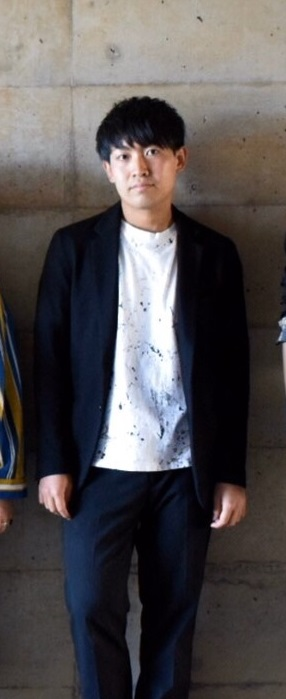
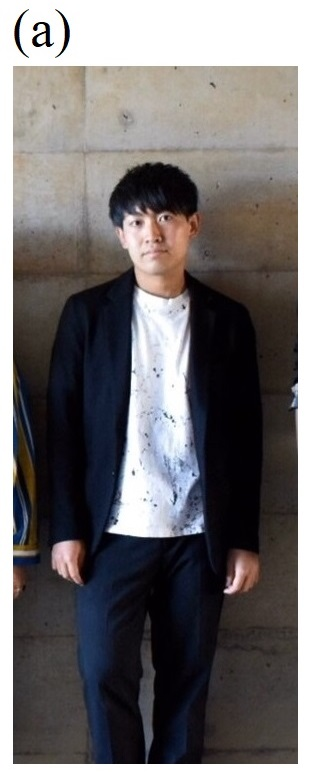
first commit

diff --git a/massively/publications.html b/massively/publications.html
@@ -16,6 +16,20 @@
 
 		<!-- Wrapper -->
 			<div id="wrapper" class="fade-in">
+
+
+				<!-- Intro -->
+				<div id="intro">
+					<h1><font face="Times New Roman">
+						<i>Publications/Presentations</i> <br>
+					 </font>
+						</h1>
+						<p style="text-align: left"> &emsp;This is a list of my Publications and conference presentation.</p>
+					<ul class="actions">
+						<li><a href="#header" class="button icon solid solo fa-arrow-down scrolly">Continue</a></li>
+					</ul>
+				</div>
+
 				<!-- Header -->
 					<header id="header">
 						<a href="../" class="logo">Home</a>
@@ -59,53 +73,68 @@
 
 										<p><u><font face="Arial, ＭＳ ゴシック,ＭＳ ゴシック" color="#660000">◆今後の発表予定</font></u></p>
 
-										<p><b>日本物理学会 第77回年次大会（2022年3月15日 岡山大学）<br>
-											15pGB11-9（口頭発表）</b><br>
-											<font color="#006400"><u>堀文哉</u></font>, 金城克樹, 北川俊作, 石田憲二, 水谷宗一郎, 大曲雄大, 鬼丸孝博<br>
-											<font color="blue">「Ybジグザグ鎖半導体YbCuS<sub>2</sub>/YbAgSe<sub>2</sub>のNMR」</font><br>
-											</p>
+										<p>
+											<font color="#006400"><u>F. Hori</u></font>, K. Kinjo, S. Kitagawa, K. Ishida, S. Mizutani, Y. Ohmagari, and T. Onimaru<br>
+											<font color="blue">"Magnetic ground state in semiconducting Yb-based compounds
+												with a zigzag-chain structure"</font><br>
+											<b>International Conference on Strongly Correlated Electron Systems 2022 (SCES2022), ??? 
+												<br>オランダ, 2022年7月24日~29日（ポスター発表）
+												</b></p>
 										
 										お楽しみに。</p>
 										
 										<p><u><font face="Arial, ＭＳ ゴシック,ＭＳ ゴシック" color="#660000">◆発表済み</font></u></p>
 
-										<p><b>Oxide Superspin 2021 (OSS2021) workshop（2021年12月13日～17日 京都）<br>
-											P8（ポスター発表）</b><br>
+										<p>
+											<font color="#006400"><u>堀文哉</u></font>, 金城克樹, 北川俊作, 石田憲二, 水谷宗一郎, 大曲雄大, 鬼丸孝博<br>
+											<font color="blue">"Ybジグザグ鎖半導体YbCuS<sub>2</sub>/YbAgSe<sub>2</sub>のNMR"</font><br>
+											<b>日本物理学会 第77回年次大会, 15pGB11-9, オンライン, 2022年3月15日（口頭発表）
+												</b>
+											</p>
+
+										<p>
 											<font color="#006400"><u>F. Hori</u></font>, K. Kinjo, S. Kitagawa, K. Ishida, Y. Ohmagari, and T. Onimaru<br>
-												<font color="blue">「Metallic-like excitation in the frustrate semiconductor YbCuS<sub>2</sub>」</font><br>
-												</p>
-										
-
-										<p><b>International Conference on Strongly Correlated Electrons Systems 2020 (SCES2020)<br>
-											（2021年9月27日 ブラジル、オンライン）<br>
-											141343（ポスター発表）</b><br>
-												<font color="#006400"><u>F. Hori</u></font>, K. Kinjo, S. Kitagawa, K. Ishida, Y. Ohmagari, and T. Onimaru<br>
-												<font color="blue">「Unkown Gapless Excitation in Antiferromagnetic State
-													of Yb Zigzag Chain System YbCuS<sub>2</sub>」</font><br>
-												</p>
-											
-											<p><b>日本物理学会 2021年秋季大会（2021年9月23日 オンライン）<br>
-												23aH2-7（口頭発表）</b><br>
-												北川俊作, 小林琢実, <font color="#006400"><u>堀文哉</u></font>, 石田憲二, 佐藤雄貴, 末次祥大, 松田祐司, L. Qian, J. M. Moya, E. Morosan<br>
-												<font color="blue">「反強磁性近藤絶縁体YbIr<sub>3</sub>Si<sub>7</sub>における低エネルギー磁気励起の磁場変化」</font><br>
-												</p>
-											
-											<p><b>日本物理学会 2021年秋季大会（2021年9月22日 オンライン）<br>
-												22aH3-8（口頭発表）</b><br>
-												<font color="#006400"><u>堀文哉</u></font>, 北川俊作, 石田憲二, 大石遼平, 鬼丸孝博, 高畠敏郎<br>
-												<font color="blue">「NMRを用いたハニカム近藤格子化合物CePt<sub>6</sub>Al<sub>3</sub>におけるPd置換効果の研究」</font><br>
-												</p>
-
-										<p><b>日本物理学会 第76回年次大会（2021年3月14日 オンライン）<br>
-											14aH3-9（口頭発表）</b><br>
-											<font color="#006400"><u>堀文哉</u></font>, 金城克樹, 北川俊作, 石田憲二, 大曲雄大, 鬼丸孝博<br>
-											<font color="blue">「Ybジグザグ鎖をもつYbCuS<sub>2</sub>における低温秩序相のNQR測定」</font><br>
+												<font color="blue">"Metallic-like excitation in the frustrate semiconductor YbCuS<sub>2</sub>"</font><br>
+												<b>Oxide Superspin 2021 (OSS2021) workshop, P8, 京都市, 2021年12月13日～17日（ポスター発表）<br>
+													<font color="red">Bronze Award For the Best Poster Presentaiton </font></b>受賞
+													<br>	
 											</p>
 										
-										<p><b>日本物理学会 2020年秋季大会（2020年9月8日～11日 オンライン）<br>
-											PSH-63（ポスター発表）</b><br>
+
+										<p>
+												<font color="#006400"><u>F. Hori</u></font>, K. Kinjo, S. Kitagawa, K. Ishida, Y. Ohmagari, and T. Onimaru<br>
+												<font color="blue">"Unkown Gapless Excitation in Antiferromagnetic State
+													of Yb Zigzag Chain System YbCuS<sub>2</sub>"</font><br>
+													<b>International Conference on Strongly Correlated Electrons Systems 2020 (SCES2020), 141343, <br>
+														ブラジル（オンライン開催）, 2021年9月27日（ポスター発表）</b>
+														</p>
+											
+											<p>
+												北川俊作, 小林琢実, <font color="#006400"><u>堀文哉</u></font>, 石田憲二, 佐藤雄貴, 末次祥大, 松田祐司, L. Qian, J. M. Moya, E. Morosan<br>
+												<font color="blue">"反強磁性近藤絶縁体YbIr<sub>3</sub>Si<sub>7</sub>における低エネルギー磁気励起の磁場変化"</font><br>
+												<b>日本物理学会 2021年秋季大会, 23aH2-7, オンライン開催, 2021年9月23日（口頭発表）</b>
+												</p>
+											
+											<p>
+												<font color="#006400"><u>堀文哉</u></font>, 北川俊作, 石田憲二, 大石遼平, 鬼丸孝博, 高畠敏郎<br>
+												<font color="blue">"NMRを用いたハニカム近藤格子化合物CePt<sub>6</sub>Al<sub>3</sub>におけるPd置換効果の研究"</font><br>
+												<b>日本物理学会 2021年秋季大会, 22aH3-8, オンライン開催, 2021年9月22日（口頭発表）<br>
+													</b>	
+											</p>
+
+										<p>
 											<font color="#006400"><u>堀文哉</u></font>, 金城克樹, 北川俊作, 石田憲二, 大曲雄大, 鬼丸孝博<br>
-											<font color="blue">「希土類カルコゲナイドYbCuS<sub>2</sub>のCu-NMR/NQR」</font></p>
+											<font color="blue">"Ybジグザグ鎖をもつYbCuS<sub>2</sub>における低温秩序相のNQR測定"</font><br>
+											<b>日本物理学会 第76回年次大会, 14aH3-9, オンライン開催, 2021年3月14日 （口頭発表）<br>
+												</b>
+											</p>
+										
+										<p>
+											<font color="#006400"><u>堀文哉</u></font>, 金城克樹, 北川俊作, 石田憲二, 大曲雄大, 鬼丸孝博<br>
+											<font color="blue">"希土類カルコゲナイドYbCuS<sub>2</sub>のCu-NMR/NQR"</font><br>
+											<b>日本物理学会 2020年秋季大会, PSH-63, オンライン開催, 2020年9月8日～11日（ポスター発表）<br>
+												</b>
+											</p>
 									</dd>
 
 

diff --git a/massively/profile.html b/massively/profile.html
@@ -16,6 +16,23 @@
 
 		<!-- Wrapper -->
 			<div id="wrapper" class="fade-in">
+
+<!-- Intro -->
+<div id="intro">
+	<h1><font face="Times New Roman">
+		<i>Profile</i> <br>
+	 </font>
+		</h1>
+		<p style="text-align: left"> &emsp;A doctoral student in Kyoto University.
+		In 1998, Fumiya Hori was born in Taketa-shi, Oita Prefecture, Japan.
+		I became interested in science from a yonung age because of "Galileo", Japanese television drama.
+		I studied physics at Hiroshima University and graduated in 2020.
+		I am now a D1 student in Department of Physics, Kyoto University.</p>
+	<ul class="actions">
+		<li><a href="#header" class="button icon solid solo fa-arrow-down scrolly">Continue</a></li>
+	</ul>
+</div>
+
 				<!-- Header -->
 					<header id="header">
 						<a href="../" class="logo">Home</a>
@@ -67,9 +84,9 @@
 								<font face="Arial, ＭＳ ゴシック,ＭＳ ゴシック">
 									　京都大学で固体物理学の実験的研究を行っています。 主に, 核磁気共鳴法(NMR), 核四重極共鳴法(NQR)を用いて, 
 									電子相関の強い希土類化合物の電子状態を原子レベルのミクロな視点から調べています。
-									左（1枚目）の写真はアカペラ（学部時代はアカペラサークルに所属していました）
-									のライブ衣装を着てキメ顔をみせてる堀, 中央（2枚目）の写真は学部の卒業旅行で行った神戸中華街の小財神人形の真似をする堀, 
-									右（3枚目）の写真は初めて口にする赤福をわんこそばの勢いで食べてしまう堀です(笑)
+									(a) アカペラ（学部時代はアカペラサークルに所属していました）のライブ衣装を着てキメ顔をみせてる堀。 
+									(b) 学部の卒業旅行で行った神戸中華街の小財神人形の真似をする堀。
+									(c) 初めて口にする赤福をわんこそばの勢いで食べてしまう堀。
 								</font>
 							
 								<hr />
@@ -82,19 +99,19 @@
 
 									<dt><h3><font face="Arial, ＭＳ ゴシック,ＭＳ ゴシック" color="#660000">身分</font></h3></dt>
 									<dd>
-										<p>固体量子物性研究室 修士2回生</p>
+										<p>固体量子物性研究室 博士課程1回生</p>
 									</dd>
 
 									<dt><h3><font face="Arial, ＭＳ ゴシック,ＭＳ ゴシック" color="#660000">生年月日</font></h3></dt>
 									<dd>
-										<p>1998年1月28日（星野源と同じ誕生日）</p>
+										<p>1998年1月28日（星野源, サバンナ高橋, トム・ブラウン布川, チョコレートプラネット長田, 三浦友和と同じ誕生日）</p>
 									</dd>
 
 									<dt><h3><font face="Arial, ＭＳ ゴシック,ＭＳ ゴシック" color="#660000">出身地</font></h3></dt>
 									<dd>
 										<p>　大分県竹田市 （大分県の南西部にあり, 熊本県と宮崎県に隣接する市です。ちょうど九州の真ん中あたりですね。
 									瀧廉太郎作曲の「荒城の月」のモデルである岡城の城下町でもあります。
-									くじゅう連山・阿蘇外輪山・祖母山系の1 kmを越える山々に囲まれ, 豊かな自然や雄大な景色, たくさんの温泉がある場所で育ちました。）</p>
+									たくさん山々に囲まれ, 豊かな自然や雄大な景色, たくさんの温泉がある場所で育ちました。）</p>
 									</dd>
 
 
@@ -135,18 +152,26 @@
 										<p><font face="Arial, ＭＳ ゴシック,ＭＳ ゴシック" color="#660000"><u>◆2020年3月</u></font>　広島大学理学部物理科学科卒業<br>
 										　広島大学磁性物理学研究室に所属し, 低温で反強四極子秩序を示すPrV<sub>2</sub>Al<sub>10</sub>におけるLa希釈系の研究を行った。</p>
 
-										<p><font face="Arial, ＭＳ ゴシック,ＭＳ ゴシック" color="#660000"><u>◆2020年4月</u></font>　京都大学大学院理学研究科入学</p>
+										<p><font face="Arial, ＭＳ ゴシック,ＭＳ ゴシック" color="#660000"><u>◆2020年4月</u></font>　京都大学理学研究科 修士課程入学</p>
+
+										<p><font face="Arial, ＭＳ ゴシック,ＭＳ ゴシック" color="#660000"><u>◆2022年4月</u></font>　京都大学理学研究科 博士後期課程進学</p>
 									</dd>
 
 
 
 									<dt><h3><font face="Arial, ＭＳ ゴシック,ＭＳ ゴシック" color="#660000">職歴</font></dt>
 									<dd>
-										<p><font face="Arial, ＭＳ ゴシック,ＭＳ ゴシック" color="#660000"><u>◆2020年12月~2021年3月</font></u>
-										　京都大学理学研究科 オフィス・アシスタント</p>
+										<p><font face="Arial, ＭＳ ゴシック,ＭＳ ゴシック" color="#660000"><u>◆2020年10月</font></u>
+											　京都大学理学研究科 オフィス・アシスタント（技術補助）</p>
 
-										<p><font face="Arial, ＭＳ ゴシック,ＭＳ ゴシック" color="#660000"><u>◆2020年4月~2021年9月</font></u>
-										　京都大学理学研究科 オフィス・アシスタント</p>
+										<p><font face="Arial, ＭＳ ゴシック,ＭＳ ゴシック" color="#660000"><u>◆2020年12月~2021年3月</font></u>
+										　京都大学理学研究科 オフィス・アシスタント（技術補助）</p>
+
+										<p><font face="Arial, ＭＳ ゴシック,ＭＳ ゴシック" color="#660000"><u>◆2021年4月~2021年9月</font></u>
+										　京都大学理学研究科 オフィス・アシスタント（技術補助）</p>
+
+										<p><font face="Arial, ＭＳ ゴシック,ＭＳ ゴシック" color="#660000"><u>◆2022年4月~2022年8月</font></u>
+											　京都大学理学研究科 ティーチング・アシスタント（「物理のための数学1」教育補助）</p>
 									</dd>
 
 

diff --git a/massively/news.html b/massively/news.html
@@ -16,6 +16,19 @@
 
 		<!-- Wrapper -->
 			<div id="wrapper" class="fade-in">
+
+				<!-- Intro -->
+				<div id="intro">
+					<h1><font face="Times New Roman">
+						<i>News</i> <br>
+					 </font>
+						</h1>
+						<p style="text-align: left"> &emsp;I will do my best to bring you the latest news.</p>
+					<ul class="actions">
+						<li><a href="#header" class="button icon solid solo fa-arrow-down scrolly">Continue</a></li>
+					</ul>
+				</div>
+
 				<!-- Header -->
 					<header id="header">
 						<a href="../" class="logo">Home</a>
@@ -42,6 +55,18 @@
 					<!--<p><u><font color="#660000">◆2021.XX.XX</font></u><br>
 					&nbsp; 論文がPhysical Review Letters誌に掲載される予定です。</p>-->
 
+					<p><u><font color="#660000">◆2022.04.23</font></u></br>
+						&nbsp; ページのデザインを僅かに変更して, 発表リスト, 今後の発表予定を更新しました。</p>
+
+					<p><u><font color="#660000">◆2022.03.17</font></u></br>
+						&nbsp; Ybジグザグ鎖半導体YbCuS<sub>2</sub>におけるNQR測定についての論文が<a href="https://iopscience.iop.org/article/10.1088/1742-6596/2164/1/012027"><font color = blue>Journal of Physics: Conference Seriesに掲載されました。</font></a></p>
+					
+					<p><u><font color="#660000">◆2022.01.31</font></u></br>
+						&nbsp; 修士論文発表会がありました。</p>
+
+					<p><u><font color="#660000">◆2022.01.19</font></u></br>
+						&nbsp; Ybジグザグ鎖半導体YbCuS<sub>2</sub>におけるNQR測定についての論文が<a href="https://arxiv.org/abs/2201.07563"><font color = blue>arXivに掲載されました。</font></a></p>
+
 					<p><u><font color="#660000">◆2021.12.17</font></u></br>
 						&nbsp; 国際会議「Oxide Superspin 2021 workshop」にてBronze Award For the Best Poster Presentaitonを受賞しました!!</p>
 	
@@ -60,6 +85,29 @@
 						<p><u><font color="#660000">◆2021.08.28</font></u><br>
 						&nbsp; ホームページ始めました!!</p>
 							</font>
+
+							<script type="text/javascript" async 
+							src="https://cdnjs.cloudflare.com/ajax/libs/mathjax/2.7.1/MathJax.js?config=TeX-MML-AM_CHTML">
+						</script>
+
+					  <font font size="1" face="Arial, ＭＳ ゴシック,ＭＳ ゴシック" color="#999999">
+					<!--数式にbodyいらない <body>  --->
+						\begin{align}
+						\mathcal{H} =\mathcal{H}_{\mathrm{Z}}+\mathcal{H}_{\mathrm{Q}} 
+						&= -\frac{\gamma}{2 \pi} h (1+K) \boldsymbol{I} \cdot \boldsymbol{H} \nonumber \\
+						&+\frac{h \nu_{z z}}{6}\left\{\left(3 I_{z}^{2}-I^{2}\right)+\frac{1}{2} \eta\left(I_{+}^{2}+I_{-}^{2}\right)\right\} \\
+
+						\frac{1}{T_{1}}=\frac{2 \gamma_{n}^{2} k_{B} T}{\left(\gamma_{e} \hbar\right)^{2}}
+						 \sum_{\boldsymbol{q}}\left|A_{\boldsymbol{q}}\right|^{2} \frac{\operatorname{Im} \chi_{\perp(\boldsymbol{q}, \omega)}}{\omega} \\
+
+						 \chi_{z}^{\mathrm{CEF}} &=\frac{g_{J}^{2} \mu_{\mathrm{B}}^{2}}{k_{\mathrm{B}} T Z}\left[\sum_{n, m}^{D}\left|\left\langle n\left|J_{z}\right| m\right\rangle\right|^{2} \exp \left(-\frac{E_{n}}{k_{\mathrm{B}} T}\right)\right]-\frac{g_{J}^{2} \mu_{\mathrm{B}}^{2}}{k_{\mathrm{B}} T Z^{2}}\left[\sum_{n, m}^{D}\left\langle n\left|J_{z}\right| m\right\rangle \exp \left(-\frac{E_{n}}{k_{\mathrm{B}} T}\right)\right]^{2} \\
+						&+\frac{2 g_{J}^{2} \mu_{\mathrm{B}}^{2}}{Z}\left[\sum_{n, m}^{N D}\left|\left\langle n\left|J_{z}\right| m\right\rangle\right|^{2} \frac{1}{E_{m}-E_{n}} \exp \left(-\frac{E_{n}}{k_{\mathrm{B}} T}\right)\right]
+
+						 \end{align}
+					<!--数式にbodyいらない <body>  --->
+				</font>
+				<p>　</p>
+
 
 
 					</div>

diff --git a/index.html b/index.html
@@ -61,25 +61,21 @@
 
 					<!--<p><u><font color="#660000">◆2021.XX.XX</font></u><br>
 					&nbsp; 論文がPhysical Review Letters誌に掲載される予定です。</p>-->
+					<p><u><font color="#660000">◆2022.04.23</font></u></br>
+						&nbsp; ページのデザインを僅かに変更して, 発表リスト, 今後の発表予定を更新しました。</p>
+
+					<p><u><font color="#660000">◆2022.03.17</font></u></br>
+						&nbsp; YbCuS<sub>2</sub>におけるNQR測定についての論文が<a href="https://iopscience.iop.org/article/10.1088/1742-6596/2164/1/012027"><font color = blue>Journal of Physics: Conference Seriesに掲載されました。</font></a></p>
+					
+					<p><u><font color="#660000">◆2022.01.31</font></u></br>
+						&nbsp; 修士論文発表会がありました。</p>
+
+					<p><u><font color="#660000">◆2022.01.19</font></u></br>
+						&nbsp; YbCuS<sub>2</sub>におけるNQR測定についての論文が<a href="https://arxiv.org/abs/2201.07563"><font color = blue>arXivに掲載されました。</font></a></p>
 
 					<p><u><font color="#660000">◆2021.12.17</font></u></br>
-					&nbsp; 国際会議「Oxide Superspin 2021 workshop」にてBronze Award For the Best Poster Presentaitonを受賞しました!!</p>
-
-					<p><u><font color="#660000">◆2021.09.27</font></u></br>
-					&nbsp; 国際会議「International Conference on Strongly Correlated Electrons Systems 2020」にてポスター発表しました。</p>
-
-					<p><u><font color="#660000">◆2021.09.22</font></u><br>
-					&nbsp; 日本物理学会2021年秋季大会にて口頭発表しました。 (講演番号: 22aH3-8)</p>
-
-					<p><u><font color="#660000">◆2021.09.05</font></u><br>
-					&nbsp; 趣味のページを更新しました。</p>
-					
-					<p><u><font color="#660000">◆2021.08.31</font></u><br>
-					&nbsp; 発表リスト, 今後の発表予定を更新しました。</p>
-
-					<p><u><font color="#660000">◆2021.08.28</font></u><br>
-					&nbsp; ホームページ始めました!!</p>
-				
+						&nbsp; 国際会議「Oxide Superspin 2021 workshop」にてBronze Award For the Best Poster Presentaitonを受賞しました!!</p>
+	
 				
 				［<a href="massively/news.html"><font color="blue">Vew All News</font></a>］
 			</font>
@@ -122,7 +118,7 @@
 				<div class="content box style2">
 						<p><font face="Times New Roman" size="10"><b><i>Profile</i></b></font></span></p>
 
-					<font face="Arial, ＭＳ ゴシック,ＭＳ ゴシック" size="3">
+					<font face="Arial, ＭＳ ゴシック,ＭＳ ゴシック" size="3" >
 					　京都大学で固体物理学の実験的研究を行っています。
 						主に, 核磁気共鳴法(NMR),
 						核四重極共鳴法(NQR)を用いて, 電子相関の強い希土類化合物の電子状態を原子レベルのミクロな視点から調べています。...

diff --git a/massively/reserch.html b/massively/reserch.html
@@ -16,10 +16,25 @@
 
 		<!-- Wrapper -->
 			<div id="wrapper" class="fade-in">
+
+
+				<!-- Intro -->
+				<div id="intro">
+					<h1><font face="Times New Roman">
+						<i>Reserch</i> <br>
+					 </font>
+						</h1>
+						<p style="text-align: left"> &emsp;Here, I list some recently published results of research activity, etc.</p>
+					<ul class="actions">
+						<li><a href="#header" class="button icon solid solo fa-arrow-down scrolly">Continue</a></li>
+					</ul>
+				</div>
+
 				<!-- Header -->
 					<header id="header">
 						<a href="../" class="logo">Home</a>
 					</header>
+
 
 				<!-- Nav -->
 				<nav id="nav">

diff --git a/massively/hobby.html b/massively/hobby.html
@@ -16,6 +16,19 @@
 
 		<!-- Wrapper -->
 			<div id="wrapper" class="fade-in">
+
+<!-- Intro -->
+<div id="intro">
+	<h1><font face="Times New Roman">
+		<i>Hobby</i> <br>
+	 </font>
+		</h1>
+		<p style="text-align: left"> &emsp;Hobbies are essential to having a well-rounded life. My hobbies remind me what I really want to cherish in life.</p>
+	<ul class="actions">
+		<li><a href="#header" class="button icon solid solo fa-arrow-down scrolly">Continue</a></li>
+	</ul>
+</div>
+
 				<!-- Header -->
 					<header id="header">
 						<a href="../" class="logo">Home</a>
